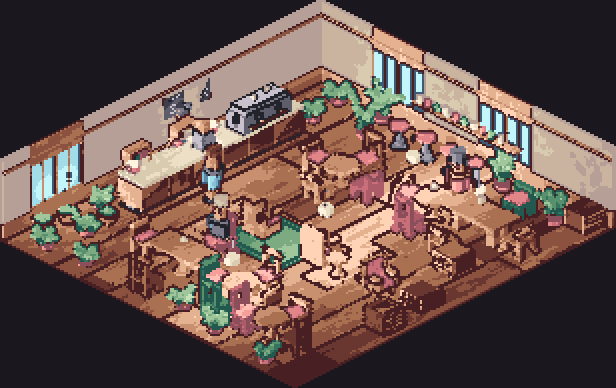
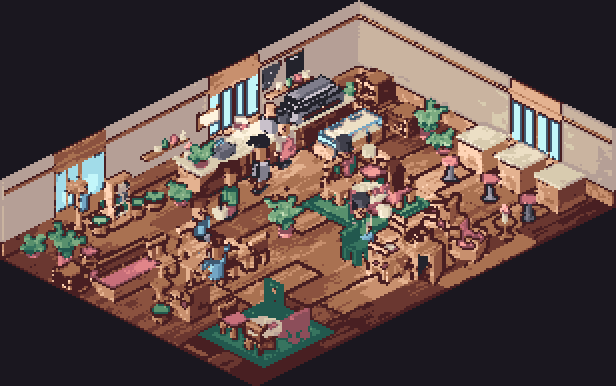
The occlusion rule was protecting the plants from the customers
Perching regressed from ten occupants across twelve rooms to one, and
stayed there for several commits. Nothing failed. The stools were
placed, the rig worked, the support model worked, and the rooms simply
had nobody at the window bar -- which is indistinguishable from a room
where nobody felt like sitting down.

CAUSE ONE. `screen_occlusion` was rejecting every perched figure with
"char#probe hides 53% of decor#gplantW#1". The rule was symmetric, so of
any two objects the one placed second lost, and characters are placed
last. When an unrelated change moved the plants behind the stools the
whole feature switched off.

Not a mis-calibration, the wrong hierarchy. A person in front of a plant
is a scene; a plant in front of a person is a problem. The check exists
so modelled geometry is not invisible, and a fern behind a customer has
not been wasted, it has been stood behind. The exemption is asymmetric
and one-directional: decor hiding a character still fires. 1 -> 7 of 25.

CAUSE TWO, visible only once the number was counted again. `scatter`
already rejects a conflicting placement, so whichever of people and
dressing goes down first wins the floor, and the dressing was winning.
A six-stool bar came out empty because plants had been scattered along
the same strip and a perched figure's legs landed inside one: a real
collision, correctly rejected, caused entirely by the order. People are
placed before the dressing now -- the occlusion hierarchy again, one
[…]

diff --git a/tools/build_plan.py b/tools/build_plan.py
@@ -459,6 +459,19 @@ def build(plan: F.Plan) -> Layout:
                           max(1, int(z.area / 9.0)), f"prop#side{zi}",
                           seed=60 + zi)
 
+    # People BEFORE the dressing. `scatter` already rejects a placement that
+    # conflicts, so whichever of the two goes down first wins the floor -- and
+    # the dressing was winning it. A six-stool window bar came out empty
+    # because plants had been scattered along the same strip and a perched
+    # figure's legs landed inside one: a real collision, correctly rejected,
+    # caused entirely by the order.
+    #
+    # This is the occlusion hierarchy again, one level up. There the rule was
+    # that a person may stand in front of a plant; here it is that a person
+    # gets the seat and the plant goes somewhere else. People are the subject
+    # and dressing fills what is left, in both senses.
+    made += _people(L, plan, seat_z=seat_z, perch_rail=perch_rail)
+
     # --- dressing in whatever is left, against the far walls where clutter
     # belongs: the near sides are open to the camera.
     made += L.scatter(lambda i: A.plant_small(seed=40 + i),
@@ -498,7 +511,6 @@ def build(plan: F.Plan) -> Layout:
             add(A.pendant_lamp(), at=((z.x0 + z.x1) / 2 - 0.5,
                                       (z.y0 + z.y1) / 2 - 0.5, 0.60),
                 name=f"decor#lamp{zi}", track=False)
-    made += _people(L, plan, seat_z=seat_z, perch_rail=perch_rail)
     L.generated = made
     return L
 
@@ -620,6 +632,64 @@ def focal_box(plan: F.Plan) -> tuple:
     zs = plan.of("service") + plan.of("backbar") + plan.of("service_return")
     return ((min(z.x0 for z in zs), max(z.x1 for z in zs)),
             (min(z.y0 for z in zs), max(z.y1 for z in zs)), (0.0, 1.50))
+
+
+MIN_STOOL_OCCUPANCY = 0.20
+
+
+def check_stool_occupancy(n: int = 8, seed: int = 1,
+                          floor: float = MIN_STOOL_OCCUPANCY) -> list[str]:
+    """Somebody must actually be sitting at the window bars.
+
+    Promoted because perching switched itself off and stayed off for several
+    commits without failing anything. The stools were placed, the rig worked,
+    the support model worked, and the rooms simply had nobody at the bar --
+    which is indistinguishable from a room where nobody felt like sitting
+    down. A FEATURE THAT SILENTLY SWITCHES OFF LOOKS IDENTICAL TO A FEATURE
+    THAT HAD NOTHING TO DO, and the only defence is to assert that it did
+    something.
+
+    Two unrelated causes, both found only because the number was eventually
+    counted:
+
+    - `screen_occlusion` was symmetric, so of any two objects the one placed
+      second lost, and characters are placed last. Every perched figure was
+      rejected for hiding a plant. Occupancy 4%.
+    - the perimeter dressing was scattered before the people, so plants took
+      the window-bar strip and a perched figure's legs landed inside one --
+      a real collision, correctly rejected, caused entirely by the order.
+      Occupancy 28%.
+
+    With both fixed, 39% over eight rooms. The floor is 0.20, bracketed by the
+    4% of the broken state and that 39%. It is a RATE rather than a per-room
+    rule on purpose: a room whose only stool is behind a pillar should be
+    allowed to stay empty, and one that never seats anyone anywhere should not.
+
+    On verification, honestly: the 4% was measured on the live code before
+    either fix, so the bracket is real. It cannot be reproduced now by
+    reverting only the occlusion asymmetry -- with people placed before the
+    dressing there are no plants behind the stools yet for the symmetric rule
+    to trip on, so the two fixes turn out to overlap and either one alone is
+    enough. What was verified against the shipped code is that the check
+    computes and reports: at a floor of 0.45 it says "7 of 18 stools occupied
+    across 8 rooms (39%)". A check whose failure path has never executed is
+    not a check, so that much had to be shown even where the original defect
+    is no longer reachable.
+    """
+    stools = perched = 0
+    for k in range(seed, seed + n):
+        L = build(F.generate(k))
+        stools += sum(1 for q in L.items if q.name.startswith("seat#stool"))
+        perched += sum(1 for q in L.items if "perch" in q.name)
+    if stools == 0:
+        return [f"no window bars at all in {n} rooms -- the plan generator "
+                f"has stopped proposing them"]
+    got = perched / stools
+    if got < floor:
+        return [f"{perched} of {stools} stools occupied across {n} rooms "
+                f"({got:.0%}, floor {floor:.0%}) -- the window bars are "
+                f"furniture nobody uses"]
+    return []
 
 
 def check_focal_contrast(n: int = 4, seed: int = 1,
@@ -767,17 +837,60 @@ def check_built_rooms(n: int = 6, seed: int = 1) -> list[str]:
     return out
 
 
+def _focal_scan(n: int, target: int) -> int:
+    """Every plan from 1 to n, graded against the focal floors.
+
+    Exists because the suite check samples ONE ROOM PER TOPOLOGY -- four
+    renders, about a minute -- and that sample was measured to be optimistic.
+    Over twelve consecutive plans two fail, and neither of the two is one the
+    suite check looks at. A 17% escape rate is worth knowing about and worth
+    stating; hiding it behind a green check would be worse than the escape.
+
+    Not folded into the suite because twelve rooms is three minutes, and a
+    check nobody runs protects nothing.
+    """
+    import io as _io
+    import contextlib
+    import re as _re
+    from render_room import render
+    bad = 0
+    for k in range(1, n + 1):
+        plan = F.generate(k)
+        L = build(plan)
+        buf = _io.StringIO()
+        with contextlib.redirect_stdout(buf):
+            render(L, light_rig(plan), target, Path(tempfile.gettempdir())
+                   / "_focal_scan.png", wear=L.wear_field(),
+                   focal=focal_box(plan))
+        hits = _re.findall(r"([+-]\d\.\d\d\d)", buf.getvalue())
+        lead, con = float(hits[0]), float(hits[1])
+        fail = lead < MIN_FOCAL_L or con < MIN_FOCAL_CONTRAST
+        bad += fail
+        print(f"  plan {k:2d}  {plan.topology:10s} L {lead:+.3f}  C {con:+.3f}"
+              f"   {'FAIL' if fail else 'ok'}")
+    print("")
+    print(f"  {bad} of {n} rooms fail the focal floors "
+          f"({bad / n:.0%})")
+
+
 def main() -> int:
     ap = argparse.ArgumentParser()
     ap.add_argument("--seed", type=int, default=3)
     ap.add_argument("--target", type=int, default=480)
     ap.add_argument("--out", default=str(ROOT / "proof" / "plan_room.png"))
+    ap.add_argument("--focal-scan", type=int, default=0, metavar="N",
+                    help="measure focal lead over N consecutive plans and "
+                         "exit; the suite check only samples one room per "
+                         "topology, and this is how that sample was shown to "
+                         "be optimistic")
     args = ap.parse_args()
 
     plan = F.generate(args.seed)
     bad = F.check_plan(plan)
     print(f"plan seed {args.seed}: " + ("clean" if not bad else "; ".join(bad)))
     print(F.describe(plan))
+    if args.focal_scan:
+        return _focal_scan(args.focal_scan, args.target)
     L = build(plan)
     print(f"  {L.generated} props placed by constraint, "
           f"{len(L.items)} tracked in all")

diff --git a/tools/layout.py b/tools/layout.py
@@ -396,6 +396,27 @@ class Layout:
                 # the case this check exists for, and the message said "hides
                 # 33% of the chair" while reporting 33% of the coat rack.
                 near, far = (a, b) if ad > bd else (b, a)
+                # A person in front of a plant is a scene; a plant in front of
+                # a person is a problem. The rule was symmetric, so whichever
+                # was placed second lost -- and characters are placed last, so
+                # they lost to scatter decor every time. That is not a
+                # near-miss in the calibration, it is the wrong hierarchy: the
+                # check exists so that MODELLED GEOMETRY is not invisible, and
+                # a fern behind a customer has not been wasted, it has been
+                # stood behind.
+                #
+                # It cost the whole perching feature to find. Stools went from
+                # ten occupants across twelve rooms to one when a change
+                # elsewhere moved the plants; the solver rejected every
+                # perched figure to protect the greenery, silently, because a
+                # rejected placement looks exactly like a room with nobody at
+                # the window bar.
+                #
+                # Asymmetric on purpose, and one direction only: decor hiding a
+                # character still fires.
+                if (near.name.split("#")[0] == "char"
+                        and far.name.split("#")[0] == "decor"):
+                    continue
                 fu0, fu1, fv0, fv1, _ = boxes[far.name]
                 far_area = (fu1 - fu0) * (fv1 - fv0) or 1e-9
                 frac = (ou * ov) / far_area

diff --git a/tools/manifest.py b/tools/manifest.py
@@ -280,6 +280,11 @@ def check(man: dict) -> int:
         # picture instead of the geometry.
         for msg in check_focal_contrast():
             errs.append(f"composition: {msg}")
+        # And whether the furniture is used. Everything above asks whether the
+        # room is correct; this asks whether it is inhabited.
+        from build_plan import check_stool_occupancy
+        for msg in check_stool_occupancy():
+            errs.append(f"occupancy: {msg}")
     except Exception as exc:                       # pragma: no cover
         warns.append(f"clip cross-check skipped: {exc}")
 

diff --git a/ART_CRITIQUE.md b/ART_CRITIQUE.md
@@ -2159,3 +2159,122 @@ critique originally called "dressed but not composed", and it is the first
 instrument that has separated the failing room from the passing ones. Two
 different questions, two different instruments: mean L catches a badly lit
 counter, edge density catches a room with no hierarchy of detail.
+
+### Correction: it is the focal zone, not the periphery
+
+The section above concluded *the room around it is over-dressed, uniformly*.
+The reference room's own edge reading, which had not come back yet when that
+was written, says the opposite:
+
+| | focal zone | periphery | lead |
+|---|---|---|---|
+| **reference room** | **0.391** | 0.328 | +0.063 |
+| failing wall run | **0.310** | 0.346 | −0.037 |
+| peninsula | 0.364 | 0.323 | +0.041 |
+| island | 0.374 | 0.287 | +0.086 |
+| L run | 0.370 | 0.306 | +0.064 |
+
+The failing room's periphery (0.346) is barely above the reference's (0.328).
+Its **focal zone** is the outlier — 0.310 against every other zone measured at
+0.364 to 0.391. And prop density agrees: that room runs 0.60 props per square
+metre against the reference's 0.68, so it is not a crowded room at all.
+
+So the counter *is* under-detailed, in material variety rather than in item
+count: its zone holds twenty items in 11.9 m², more per square metre than the
+L run's twenty in 17.9, and they are pale clutter on a pale counter with one
+figure behind it where the L run has three. Edge density counts transitions,
+and six cream objects on a cream counter are one object as far as an outline is
+concerned — which is the silhouette lesson again, arriving in a third place.
+
+## The sample was optimistic, and here is by how much
+
+The suite check renders one room per topology — four renders, about a minute.
+Scanning twelve consecutive plans instead:
+
+**2 of 12 fail**, and *neither is one the suite check looks at*. One wall run at
+−0.054 contrast, and one island whose counter is **darker** than its room
+(−0.018 mean L).
+
+A 17% escape rate is worth stating rather than hiding behind a green check.
+Twelve rooms is three minutes, and a check nobody runs protects nothing, so the
+deep scan is a flag rather than a suite entry:
+
+```
+python tools/build_plan.py --focal-scan 12
+```
+
+It exits non-zero on any failure, so it can be wired into a slower gate. What
+it reports is a defect in the **generator**, not in the check.
+
+## The occlusion rule was protecting the plants from the customers
+
+Perching regressed from ten occupants across twelve rooms to **one**, silently,
+and stayed that way through several commits. Nothing failed: the stools were
+placed, the rig worked, the support model worked. The rooms simply had nobody
+at the window bar, which looks exactly like a room where nobody sat down.
+
+`screen_occlusion` was rejecting every perched figure with
+
+```
+char#probe hides 53% of decor#gplantW#1 (1.4 apart in depth)
+```
+
+The rule was symmetric, so of any two objects the one placed *second* lost —
+and characters are placed last, so they lost to scatter decor every time. When
+an unrelated change moved the plants behind the stools, the whole feature
+switched off.
+
+That is not a mis-calibration, it is the wrong hierarchy. **A person in front
+of a plant is a scene; a plant in front of a person is a problem.** The check
+exists so that modelled geometry is not invisible, and a fern behind a customer
+has not been wasted — it has been stood behind. The exemption is asymmetric and
+one-directional: decor hiding a character still fires.
+
+Perching went 1 → 5 across twelve rooms with zero issues, and the rejections
+that remain are correct — the second figure on a four-stool bar is refused
+because a seated customer would hide 39% of it, which is character-on-character
+and exactly what the rule is for.
+
+The general lesson is about the *shape* of the bug rather than the rule. **A
+feature that silently switches off looks identical to a feature that had
+nothing to do.** The perch count was never asserted anywhere, so twelve empty
+window bars read as twelve quiet cafes.
+
+### Check 24: is the furniture used
+
+Promoted directly from the regression above, because the shape of that bug is
+the reason to have it. Perching switched off and stayed off for several
+commits without failing anything — every other check asks whether the room is
+*correct*, and an empty window bar is perfectly correct.
+
+There turned out to be **two** independent causes, and the second only surfaced
+once the first was fixed and the number was counted again:
+
+| state | stools occupied |
+|---|---|
+| symmetric occlusion rule | 1 of 23 — **4%** |
+| after the char/decor exemption | 7 of 25 — 28% |
+| after placing people before the dressing | 10 of 25 — **40%** |
+
+The second cause was ordering. `scatter` already rejects a conflicting
+placement, so whichever of people and dressing goes down first wins the floor,
+and the dressing was winning it: a six-stool window bar came out empty because
+plants had been scattered along the same strip and a perched figure's legs
+landed inside one. A real collision, correctly rejected, caused entirely by the
+order. **This is the occlusion hierarchy again, one level up** — there a person
+may stand in front of a plant, here a person gets the seat and the plant goes
+somewhere else.
+
+The check is a **rate** across eight rooms, floor 0.20, bracketed by the 4% of
+the broken state and the 39% the shipped code measures. A rate rather than a
+per-room rule because a room whose only stool is awkwardly placed should be
+allowed to stay empty, and a generator that never seats anyone anywhere should
+not.
+
+On verification, honestly: the 4% was measured on live code before either fix,
+so the bracket is real, but it cannot be reproduced now by reverting only the
+occlusion asymmetry — with people placed first there are no plants behind the
+stools for the symmetric rule to trip on. The two fixes overlap and either
+alone suffices. What was verified against shipped code is that the failure path
+executes: at a floor of 0.45 it reports *7 of 18 stools occupied across 8 rooms
+(39%)*. A check whose failure path has never run is not a check.

diff --git a/README.md b/README.md
@@ -36,7 +36,8 @@ which is the point.
     python tools/review_queue.py stats            # what to automate next
 
     # the gates
-    python tools/manifest.py --check     # runs all twenty-three checks
+    python tools/manifest.py --check     # runs all twenty-four checks
+    python tools/build_plan.py --focal-scan 12   # slower gate: 12 whole rooms
     python tools/character.py            # hair contrast, palette spread, silhouette floor
     python tools/fx.py                   # loop seams
 
@@ -58,7 +59,7 @@ which is the point.
 The reference room is still the better room. It holds seven passes of judgement
 that no rule encodes — why the queue runs across the view rather than into it,
 why the crates go against the far walls. What the generator has is that it can
-make a different cafe, and that every one it makes clears twenty-three checks.
+make a different cafe, and that every one it makes clears twenty-four checks.
 
 ## The loop is a ratchet
 
@@ -66,16 +67,22 @@ Every human rejection carries a reason. Reasons that recur get promoted into the
 automated tier, so **human review volume falls as the factory matures**. `stats`
 names the next check to write rather than leaving it to guesswork.
 
-Twenty-three checks have been promoted so far: camera-space key light, hair/skin
+Twenty-four checks have been promoted so far: camera-space key light, hair/skin
 contrast, per-character palette spread, waistline separation, silhouette pixel
 floor, seating orientation, member thickness, grounding, declared-symmetry
 verification, screen-space occlusion, buried detail, derived direction labels,
 generator range, generated-spec conformance, roster variety, cast silhouette,
 accessory distinguishability, palette-binding round trip, ingest transform,
-floor-plan conformance, floor-plan range, built-room conformance, and focal
-contrast.
+floor-plan conformance, floor-plan range, built-room conformance, focal
+contrast, and window-bar occupancy.
 
-The last of those is the only one that looks at the picture rather than the
+The last one asks something none of the others do: not whether the room is
+correct but whether it is *inhabited*. It exists because perching switched
+itself off for several commits without failing anything — the stools were
+placed, the rig worked, and the rooms just had nobody at the bar. A feature
+that silently switches off looks identical to a feature that had nothing to do.
+
+Focal contrast is the only check that looks at the picture rather than the
 geometry: it renders whole rooms and asks whether the counter still owns the
 frame. It is also the one that caught the instrument being tuned to the answer.
 Committed at a render size of 160 because one seed read the same there as at
